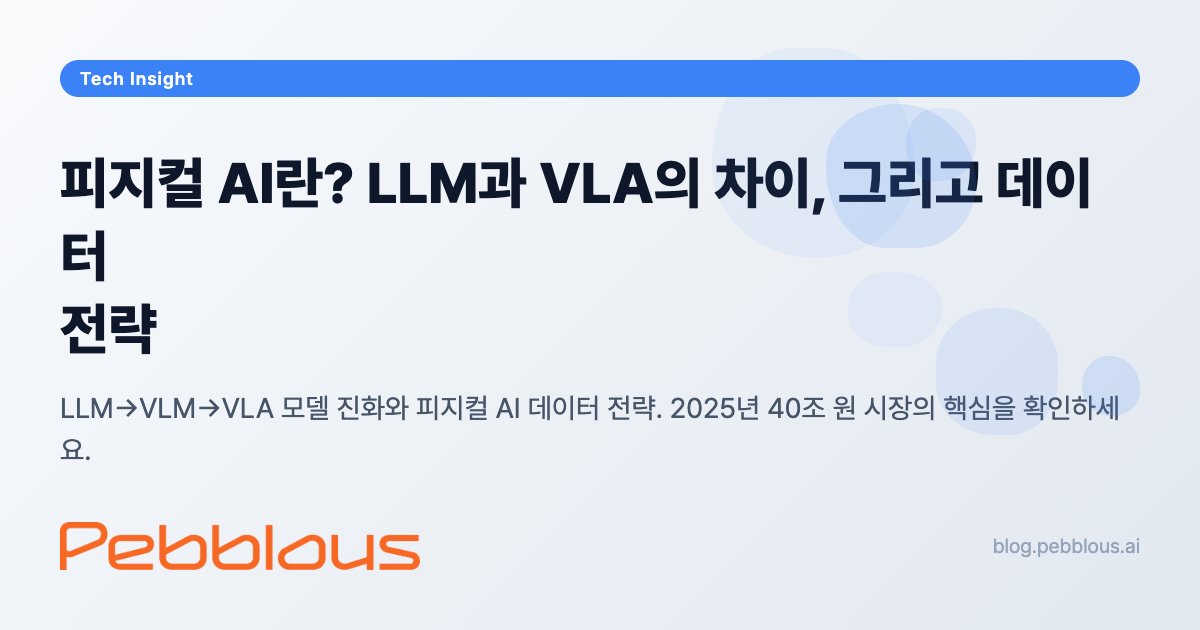
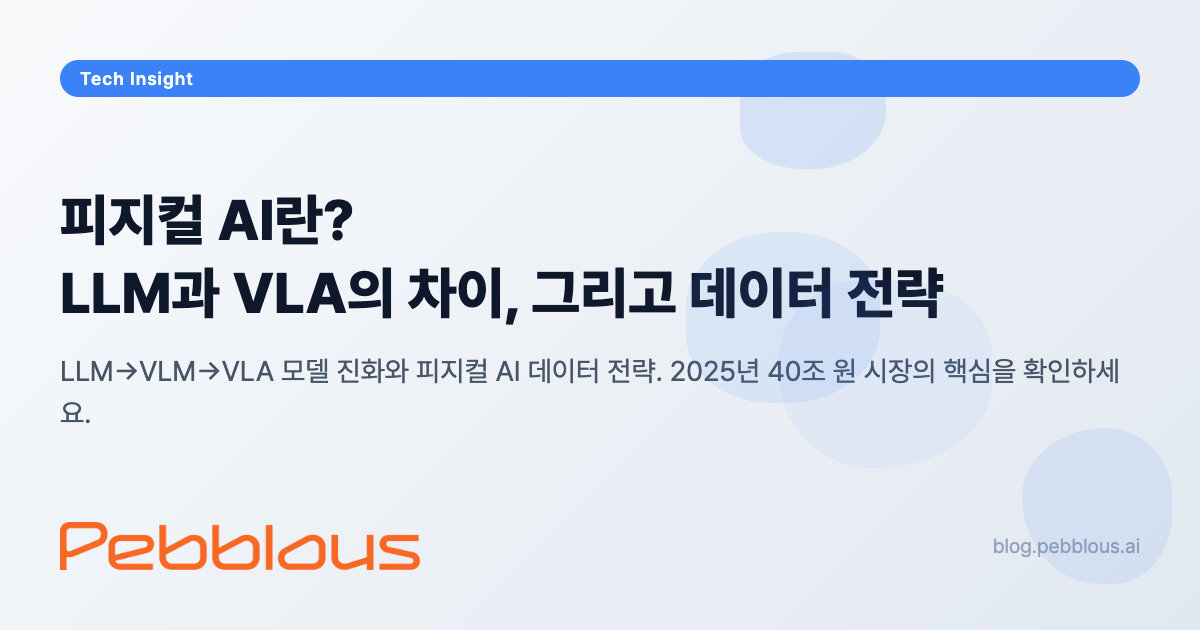
fix: Physical AI 기사 브랜드 색상 통일 + OG 이미지 줄바꿈 수정
- #10b981(초록) → #14b8a6(틸), #6366f1(인디고) → #3B82F6(블루) — KO/EN
- og-image-title 추가: "피지컬 AI란?\nLLM과 VLA의 차이, 그리고 데이터 전략"
- OG 이미지 재생성 (KO/EN)

Changed region(s): [[0.0308, 0.1508, 0.9558, 0.6635], [0.0308, 0.6937, 0.0617, 0.7238]]

diff --git a/project/PhysicalAI/physical-ai/ko/index.html b/project/PhysicalAI/physical-ai/ko/index.html
@@ -18,6 +18,7 @@
     <link rel="alternate" hreflang="x-default" href="https://blog.pebblous.ai/project/PhysicalAI/physical-ai/en/">
 
     <!-- Open Graph -->
+    <meta name="og-image-title" content="피지컬 AI란?&#10;LLM과 VLA의 차이, 그리고 데이터 전략">
     <meta property="og:title" content="피지컬 AI란? LLM과 VLA의 차이, 그리고 데이터 전략">
     <meta property="og:description" content="LLM→VLM→VLA 모델 진화와 피지컬 AI 데이터 전략. 2025년 40조 원 시장의 핵심을 확인하세요.">
     <meta property="og:type" content="website">
@@ -888,7 +889,7 @@
                         </div>
                     </div>
 
-                    <div class="highlight-box" style="border-left-color: #10b981;">
+                    <div class="highlight-box" style="border-left-color: #14b8a6;">
                         <p>
                             🛡 <strong>페블러스 DataClinic의 역할:</strong> 희소한 <strong class="accent-text">에지 케이스(Edge Case)</strong> 데이터를
                             체계적으로 생성하고 검증하여, 고객사의 AI 모델이 현장에서 <strong class="teal-text">안전하게 작동</strong>하도록 보장합니다.
@@ -1023,7 +1024,7 @@
                         </div>
                     </div>
 
-                    <div class="highlight-box" style="border-left-color: #6366f1;">
+                    <div class="highlight-box" style="border-left-color: #3B82F6;">
                         <p>
                             ⚡ <strong>페블러스의 데이터 최적화:</strong> 로봇의 제한된 컴퓨팅 자원에 맞춰 데이터를 <strong class="accent-text">최적화(Optimization)</strong>하여,
                             가볍고 빠른 모델 학습을 지원합니다. 클라우드 의존도를 낮추고 <strong class="teal-text">에지 디바이스에서의 고효율 추론</strong>이 가능하도록

diff --git a/project/PhysicalAI/physical-ai/en/index.html b/project/PhysicalAI/physical-ai/en/index.html
@@ -890,7 +890,7 @@
                         </div>
                     </div>
 
-                    <div class="highlight-box" style="border-left-color: #10b981;">
+                    <div class="highlight-box" style="border-left-color: #14b8a6;">
                         <p>
                             🛡 <strong>The Role of Pebblous DataClinic:</strong> We systematically generate and validate rare <strong class="accent-text">Edge Case</strong> data
                             to ensure our clients' AI models <strong class="teal-text">operate safely</strong> in the field.
@@ -1025,7 +1025,7 @@
                         </div>
                     </div>
 
-                    <div class="highlight-box" style="border-left-color: #6366f1;">
+                    <div class="highlight-box" style="border-left-color: #3B82F6;">
                         <p>
                             ⚡ <strong>Pebblous Data Optimization:</strong> We <strong class="accent-text">optimize</strong> data for the limited computing resources of robots,
                             supporting lightweight and fast model training. We design data pipelines that reduce cloud dependency
